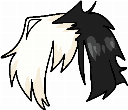
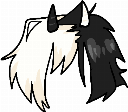
Fix Celeste missing horns, remove swept hair

diff --git a/data/version.inc.php b/data/version.inc.php
@@ -1,2 +1,2 @@
 <?php
-const VERSION = 135;
+const VERSION = 136;
